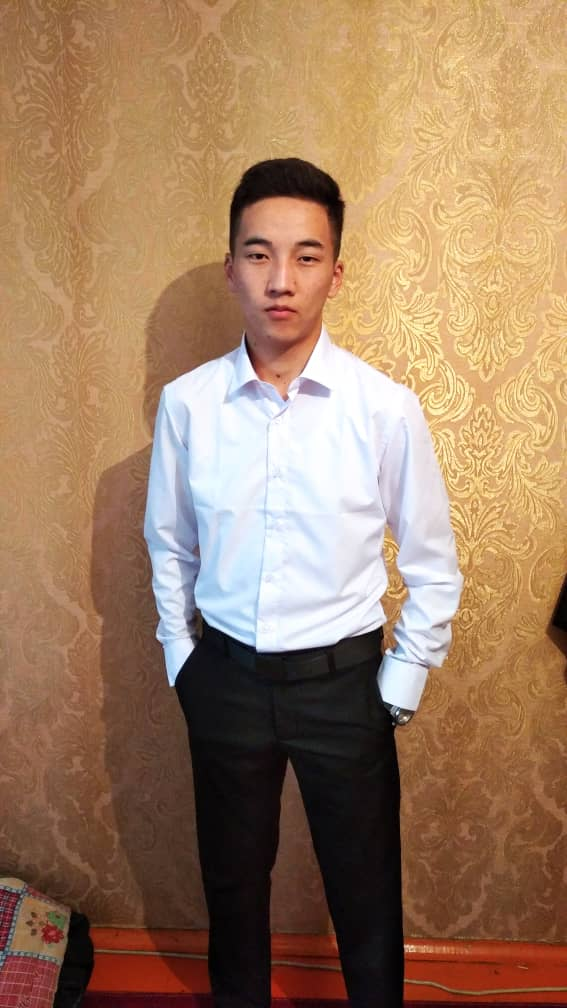
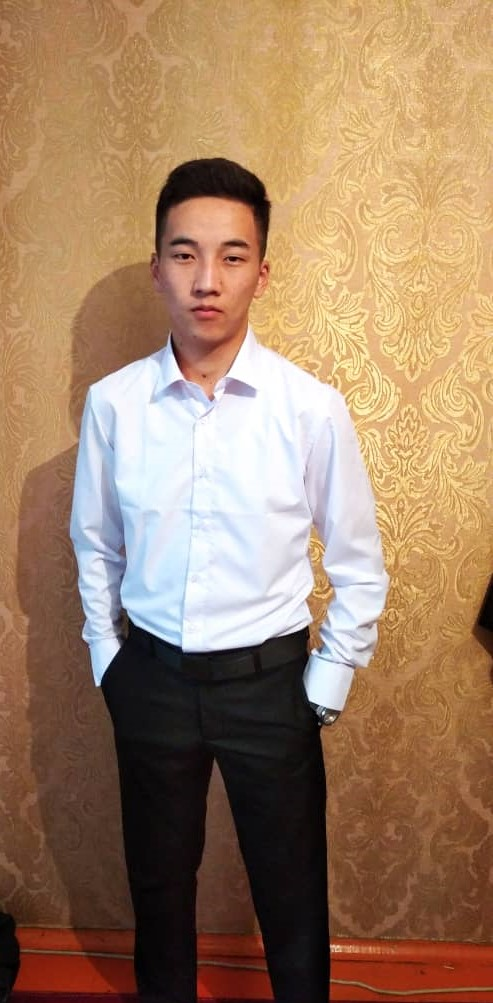
5
5

diff --git a/index.html b/index.html
@@ -16,6 +16,9 @@
 
     <link rel="stylesheet" href="css/style.css">
 
+    <!-- icons css start -->
+    <link rel="stylesheet" href="css/icons.css">
+    <!-- icons css end -->
     <!-- slider css start-->
     <link rel="stylesheet" href="css/slider.css">
     <!-- slider css end -->
@@ -48,6 +51,54 @@
 </head>
 
 <body>
+
+    <!-- icons social start -->
+    <!-- SPRITE -->
+    <svg style="display: none;">
+
+
+        <!-- facebook -->
+        <symbol id="facebook" viewBox="0 0 24 24">
+            <g>
+                <path
+                    d="m15.997 3.985h2.191v-3.816c-.378-.052-1.678-.169-3.192-.169-3.159 0-5.323 1.987-5.323 5.639v3.361h-3.486v4.266h3.486v10.734h4.274v-10.733h3.345l.531-4.266h-3.877v-2.939c.001-1.233.333-2.077 2.051-2.077z" />
+            </g>
+        </symbol>
+
+        <!-- instagram -->
+        <symbol id="instagram" viewBox="0 0 512 512">
+            <g>
+                <path
+                    d="m301 256c0 24.851562-20.148438 45-45 45s-45-20.148438-45-45 20.148438-45 45-45 45 20.148438 45 45zm0 0" />
+                <path
+                    d="m332 120h-152c-33.085938 0-60 26.914062-60 60v152c0 33.085938 26.914062 60 60 60h152c33.085938 0 60-26.914062 60-60v-152c0-33.085938-26.914062-60-60-60zm-76 211c-41.355469 0-75-33.644531-75-75s33.644531-75 75-75 75 33.644531 75 75-33.644531 75-75 75zm86-146c-8.285156 0-15-6.714844-15-15s6.714844-15 15-15 15 6.714844 15 15-6.714844 15-15 15zm0 0" />
+                <path
+                    d="m377 0h-242c-74.4375 0-135 60.5625-135 135v242c0 74.4375 60.5625 135 135 135h242c74.4375 0 135-60.5625 135-135v-242c0-74.4375-60.5625-135-135-135zm45 332c0 49.625-40.375 90-90 90h-152c-49.625 0-90-40.375-90-90v-152c0-49.625 40.375-90 90-90h152c49.625 0 90 40.375 90 90zm0 0" />
+            </g>
+        </symbol>
+
+        <!-- whatsapp -->
+        <symbol id="whatsapp" viewBox="0 0 512 512">
+            <g>
+                <path
+                    d="M256.064,0h-0.128C114.784,0,0,114.816,0,256c0,56,18.048,107.904,48.736,150.048l-31.904,95.104l98.4-31.456
+                C155.712,496.512,204,512,256.064,512C397.216,512,512,397.152,512,256S397.216,0,256.064,0z M405.024,361.504
+                c-6.176,17.44-30.688,31.904-50.24,36.128c-13.376,2.848-30.848,5.12-89.664-19.264C189.888,347.2,141.44,270.752,137.664,265.792
+                c-3.616-4.96-30.4-40.48-30.4-77.216s18.656-54.624,26.176-62.304c6.176-6.304,16.384-9.184,26.176-9.184
+                c3.168,0,6.016,0.16,8.576,0.288c7.52,0.32,11.296,0.768,16.256,12.64c6.176,14.88,21.216,51.616,23.008,55.392
+                c1.824,3.776,3.648,8.896,1.088,13.856c-2.4,5.12-4.512,7.392-8.288,11.744c-3.776,4.352-7.36,7.68-11.136,12.352
+                c-3.456,4.064-7.36,8.416-3.008,15.936c4.352,7.36,19.392,31.904,41.536,51.616c28.576,25.44,51.744,33.568,60.032,37.024
+                c6.176,2.56,13.536,1.952,18.048-2.848c5.728-6.176,12.8-16.416,20-26.496c5.12-7.232,11.584-8.128,18.368-5.568
+                c6.912,2.4,43.488,20.48,51.008,24.224c7.52,3.776,12.48,5.568,14.304,8.736C411.2,329.152,411.2,344.032,405.024,361.504z" />
+            </g>
+        </symbol>
+
+    </svg>
+    <!-- icons social end -->
+
+
+
+
     <!-- header start -->
     <header>
         <div class="header">
@@ -358,14 +409,24 @@
                     <!--social-links-->
                     <div class="member-social-links">
                         <!--facebook-->
-                        <a href="#"><i class="fab fa-facebook-f"></i></a>
-                        <!--instagram-->
-                        <a href="#"><i class="fab fa-instagram"></i></a>
+                        <!-- <a href="#"><i class="fab fa-facebook-f"></i></a> -->
+
+                        <span class="facebook">
+                            <span class="fa fa-facebook"></span>
+                        </span>
+
+                        <span class="instagram">
+                            <span class="fa fa-instagram"></span>
+                        </span>
+
+
                     </div>
                     <!--position---->
                     <h5 class="position">Директор | (илимий багыты жб инф.)</h5>
                     <!--details--->
-                    <p>Жашооңуздун ар бир мүнөтүнөн рахат алууну үйрөнүңүз. Азыр бактылуу бол. Келечекте сизди бактылуу кылуу үчүн сырттан бир нерсе күтпөңүз. Жумушта болобу же үй-бүлөңүздө болобу, убактыңыз канчалык кымбат экендигин ойлонуп көрүңүз. Ар бир мүнөттөн ырахат алуу жана ырахат алуу керек!</p>
+                    <p>Жашооңуздун ар бир мүнөтүнөн рахат алууну үйрөнүңүз. Азыр бактылуу бол. Келечекте сизди бактылуу
+                        кылуу үчүн сырттан бир нерсе күтпөңүз. Жумушта болобу же үй-бүлөңүздө болобу, убактыңыз канчалык
+                        кымбат экендигин ойлонуп көрүңүз. Ар бир мүнөттөн ырахат алуу жана ырахат алуу керек!</p>
                     <!--view-btn---->
                     <!-- <a href="#" class="view-work-btn">Посмотреть работу</a> -->
 

diff --git a/css/icons.css b/css/icons.css
@@ -1,0 +1,49 @@
+
+/* insta start */
+.instagram {
+    display: inline-block;
+    width: 30px;
+    height: 30px;
+    line-height: 28px;
+    margin: 10px;
+    text-align: center;
+    border-radius: 40px;
+    color: rgb(0, 0, 0);
+    font-size: 20px;
+    vertical-align: middle;
+    background: #ffffff;
+
+    border: 1px solid #000000;
+}
+
+.instagram:hover {
+    color: #fff;
+    background: #d6249f;
+    background: radial-gradient(circle at 30% 107%, #fdf497 0%, #fdf497 5%, #fd5949 45%, #d6249f 60%, #285AEB 80%);
+    box-shadow: 0px 3px 10px rgba(0, 0, 0, .25);
+}
+/* insta end */
+
+/* facebook start */
+.facebook {
+    display: inline-block;
+    width: 30px;
+    height: 30px;
+    text-align: center;
+    border-radius: 40px;
+    color: rgb(0, 0, 0);
+    font-size: 20px;
+    vertical-align: middle;
+    background: #ffffff;
+
+    border: 1px solid #000000;
+}
+.facebook:hover {
+    color: #fff;
+    background:rgb(0, 23, 194);
+    
+    box-shadow: 0px 3px 10px rgba(0, 0, 0, .25);
+}
+
+
+/* facebook end */

diff --git a/css/team.css b/css/team.css
@@ -151,7 +151,7 @@ a {
 }
 
 .detail-box-img {
-    width: 300px;
+    width: 400px;
     height: auto;
 }
 
@@ -191,11 +191,11 @@ a {
     color: #000000;
 }
 
-.member-social-links a:hover {
+/* .member-social-links a:hover {
     color: #fff;
     background-color: #181818;
     transition: all ease 0.3s;
-}
+} */
 
 .detail-box-text .position {
     color: #000000;
@@ -232,7 +232,7 @@ a {
     text-decoration: none;
 
 
-    transition: background .5s linear;
+    transition: background .5s;
 
     outline: none !important;
     -webkit-tap-highlight-color: rgba(255, 255, 255, 0);
@@ -446,8 +446,14 @@ a {
         /* grid-template-columns: 0px 0px; */
     }
 
-    .member-img {
-        height: 500px;
+    .detail-box-img {
+        width: 300px;
+        height: 450px;
+    }
+
+    .detail-box-img img{
+        width: 100%;
+        height: 100%;
     }
 
     .show-details-1,

diff --git a/css/slider.css b/css/slider.css
@@ -300,7 +300,7 @@
 	text-decoration: none;
 
 
-	transition: background .5s linear;
+	transition: background .5s ;
 
 	outline: none !important;
 	-webkit-tap-highlight-color: rgba(255, 255, 255, 0);
